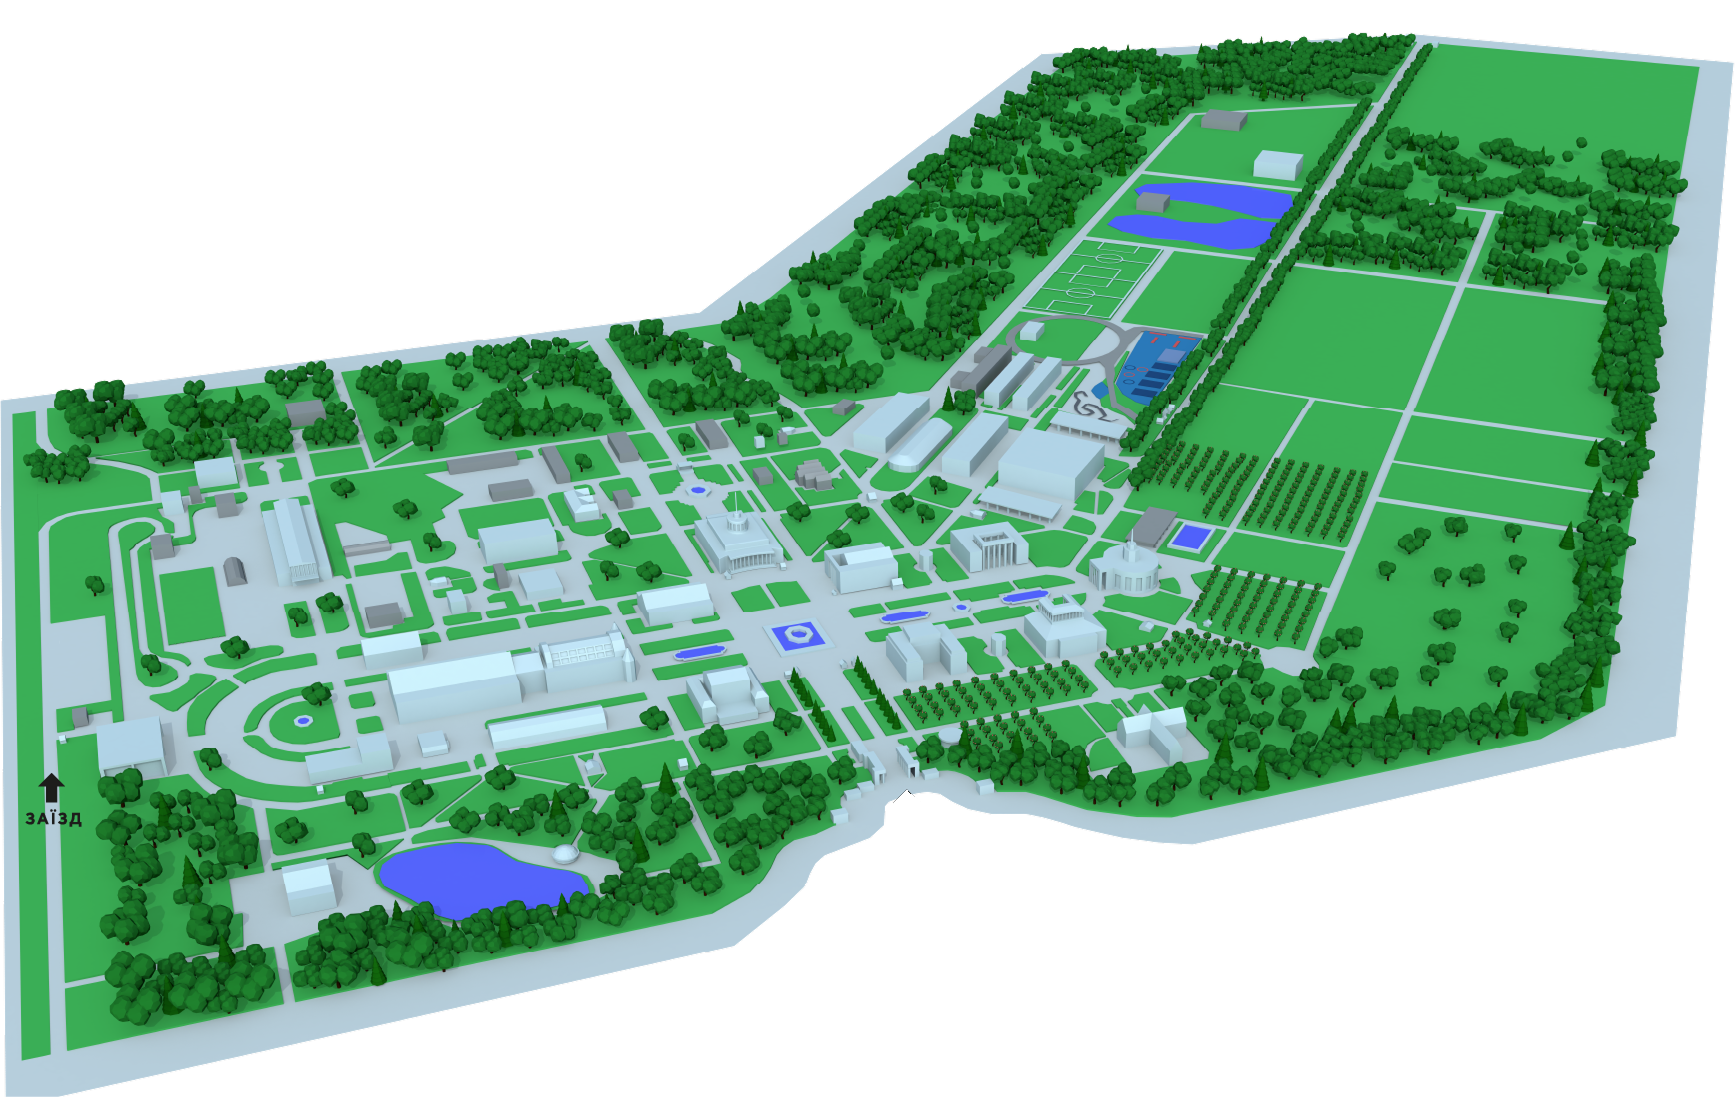
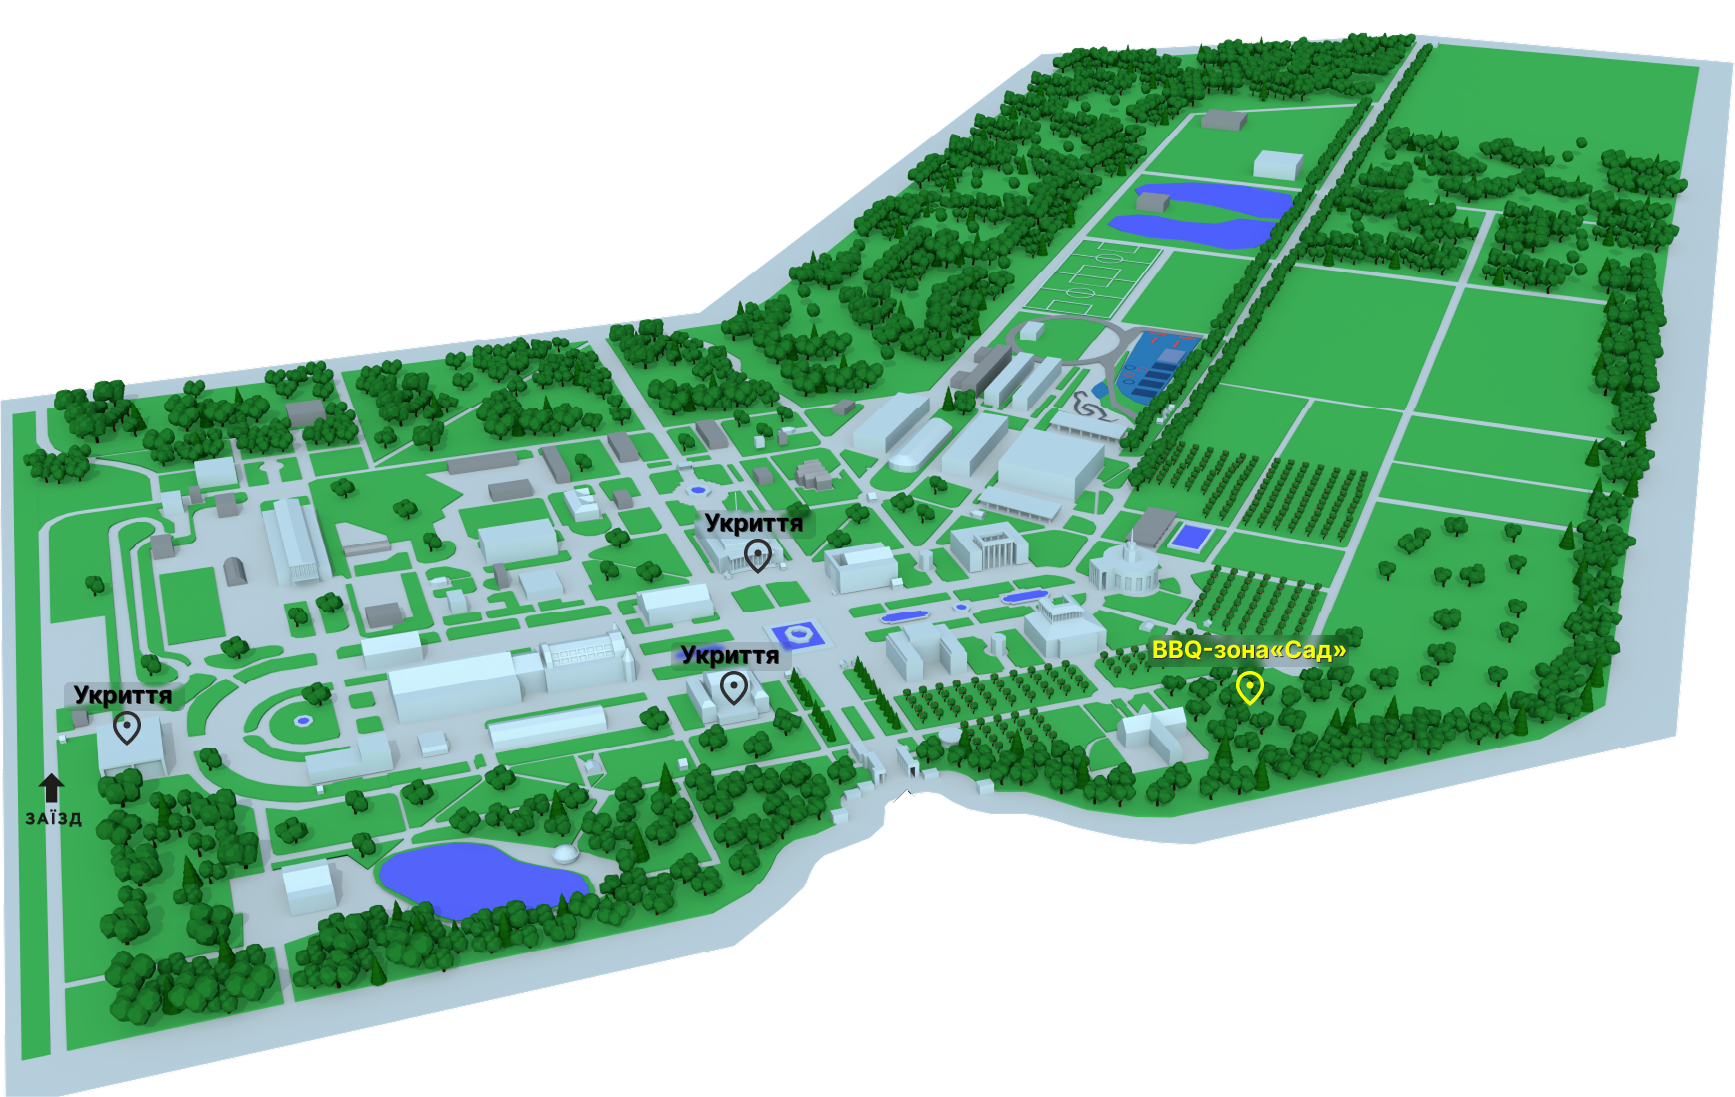
Impove maps

diff --git a/packages/posviata/src/components/InteractiveBbqMap/InteractiveBbqMap.tsx b/packages/posviata/src/components/InteractiveBbqMap/InteractiveBbqMap.tsx
@@ -18,21 +18,21 @@ export function InteractiveBbqMap({
       <div className={styles.content}>
         <Image className={styles.image} multiple={mapImage} draggable={false} />
 
-        <svg viewBox="0 0 100 105.781" className={styles.overlay}>
+        <svg viewBox="0 0 1574 1665" className={styles.overlay}>
           <MovingPath
             className={classNames(styles.shape, styles['main-place'])}
-            d="m1.2488 1.9203 29.946-0.018608 0.03543 9.5557s-0.67391 0.74582-2.3276 1.8443c-5.3846 3.5769-3.8359 7.7695-6.1726 8.7154-1.1079 0.44851-9.9086 0.28637-13.114 0.3331-2.867 0.0637-5.5984-0.21488-8.4517-0.45265z"
-            fill={100}
-            gap={15}
-            strokeWidth=".5"
+            d="M252 728L259 623L246 525.5L181.5 476.5L76.5 461.5V369.5L166 329.5L252 183.5L551.5 194.5L749.5 270.5L794.5 399.5L749.5 516L642 537L621.75 632.5L556 728H252Z"
+            fill={750}
+            gap={120}
+            strokeWidth="5"
           />
 
           <MovingPath
             className={classNames(styles.shape, styles['wc-place'])}
-            d="m91.968 97.945 4.9019-0.01181-0.14318 6.0807h-4.8428z"
-            fill={25}
-            gap={6}
-            strokeWidth=".3"
+            d="M1442.5 1530 h79 v98h-79Z"
+            fill={70}
+            gap={20}
+            strokeWidth="5"
           />
         </svg>
       </div>

diff --git a/packages/posviata/src/components/MapSelector/MapSelector.tsx b/packages/posviata/src/components/MapSelector/MapSelector.tsx
@@ -19,7 +19,9 @@ export function MapSelector({ className }: MapSelectorProps) {
       <OptionSwitch
         className={styles.switch}
         options={options}
-        renderOption={(option) => (option === 'main' ? 'ВДНГ' : 'BBQ Сад')}
+        renderOption={(option) =>
+          option === 'main' ? 'ВДНГ' : 'BBQ-зона «Сад»'
+        }
         selected={selectedType}
         onOptionSelected={setSelectedType}
       />

diff --git a/packages/posviata/src/components/blocks/CountdownBlock/components/Countdown/Countdown.module.scss b/packages/posviata/src/components/blocks/CountdownBlock/components/Countdown/Countdown.module.scss
@@ -3,7 +3,7 @@
 .root {
   display: flex;
   align-items: start;
-  justify-content: space-between;
+  justify-content: space-around;
 
   font-family: 'Press Start', sans-serif;
 }
